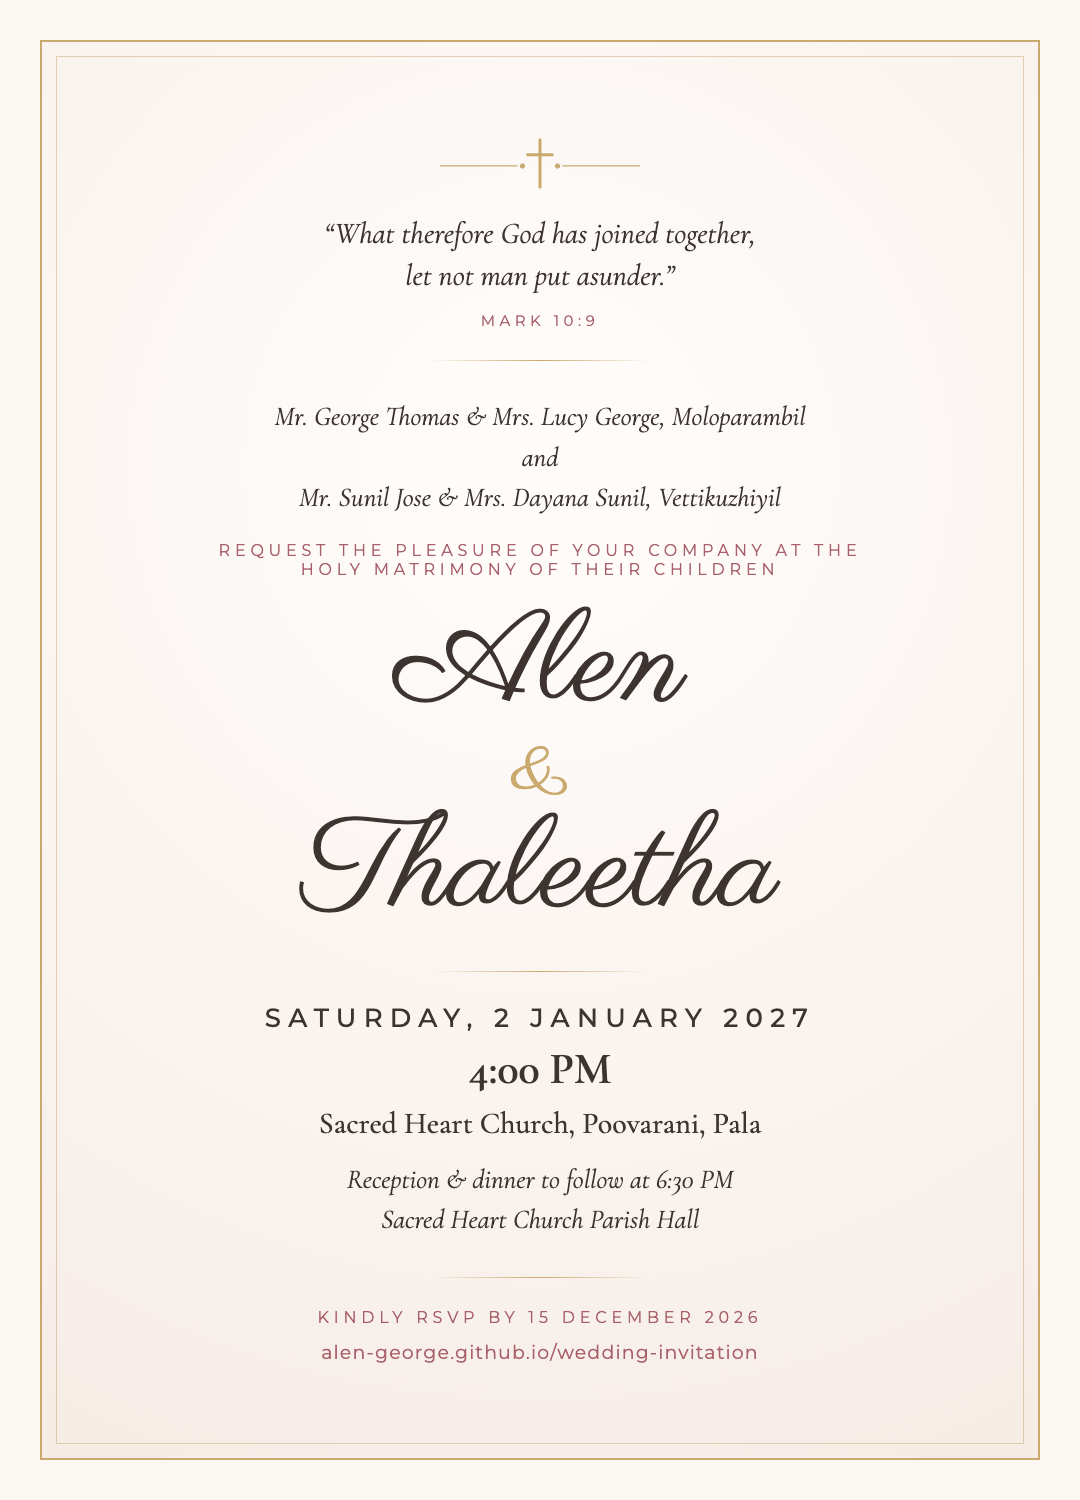
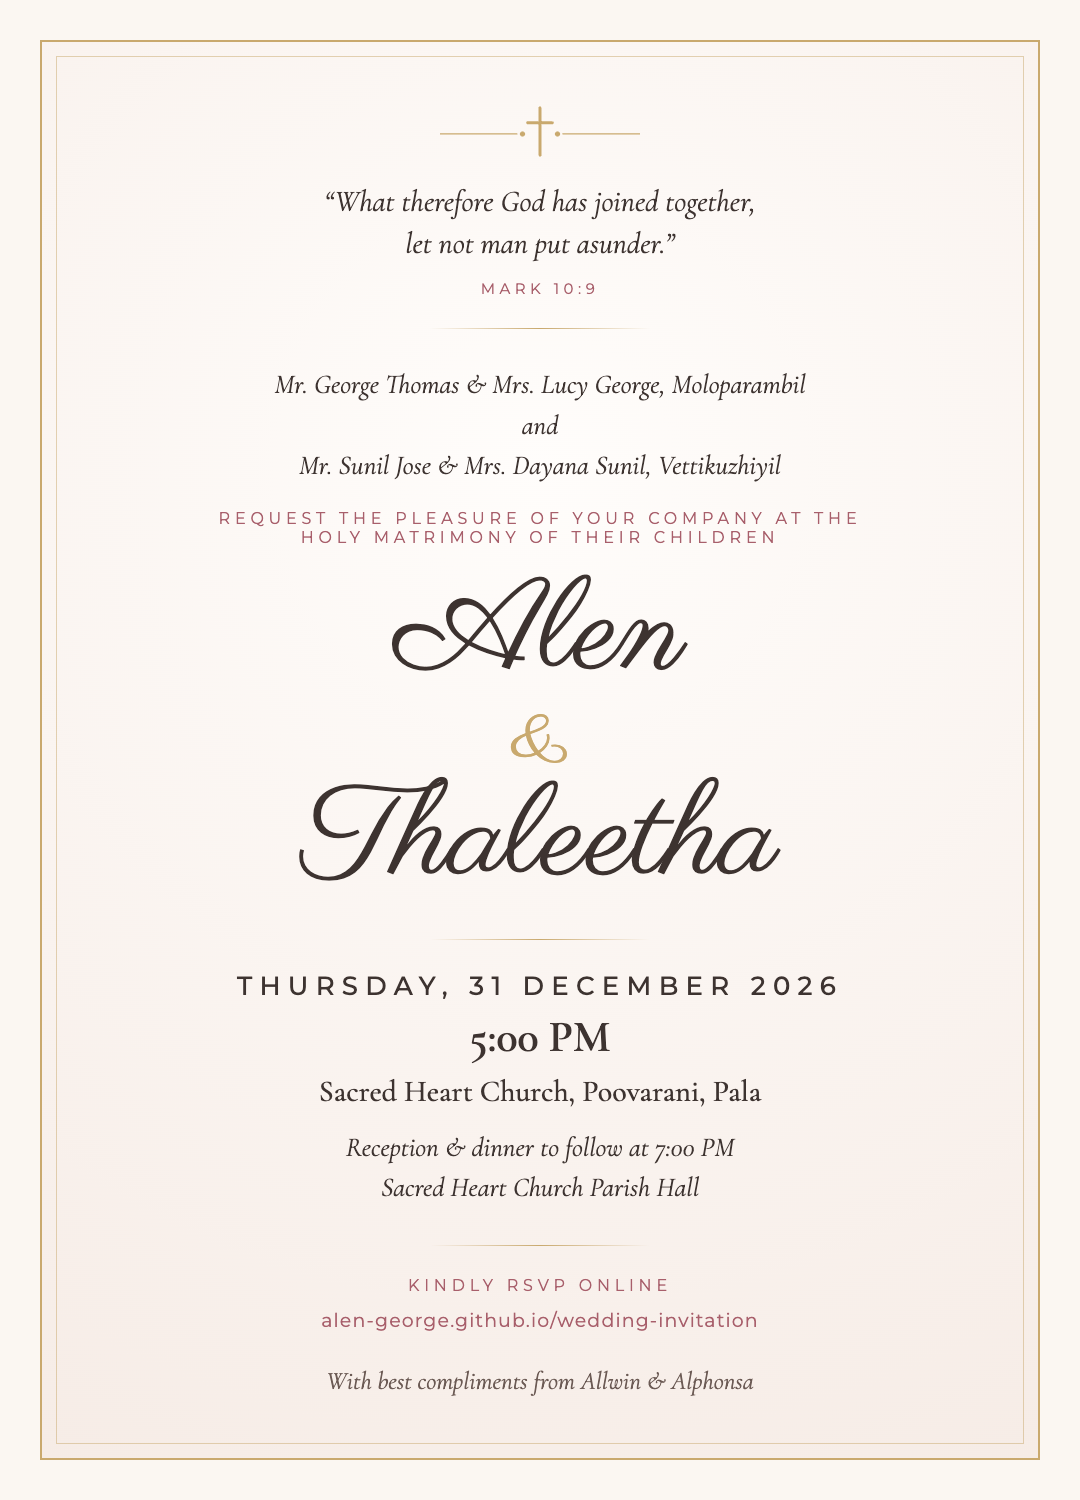
update

diff --git a/index.html b/index.html
@@ -8,9 +8,9 @@
   <!-- Link previews (WhatsApp, iMessage, Facebook) are read before any JavaScript runs,
        so edit these four lines by hand. og:image must be a full URL once the site is live,
        e.g. https://yourname.github.io/wedding-invitation/photos/hero-1.jpg -->
-  <meta name="description" content="Alen & Thaleetha are getting married on 02 January 2027. Tap to view the invitation and RSVP.">
+  <meta name="description" content="Alen & Thaleetha are getting married on 31 December 2026. Tap to view the invitation and RSVP.">
   <meta property="og:title" content="Alen & Thaleetha · Wedding Invitation">
-  <meta property="og:description" content="Saturday, 02 January 2027 · Pala · Tap to view the invitation and RSVP.">
+  <meta property="og:description" content="Thursday, 31 December 2026 · Pala · Tap to view the invitation and RSVP.">
   <meta property="og:image" content="https://alen-george.github.io/wedding-invitation/photos/og-preview.jpg">
   <meta property="og:image:width" content="1200">
   <meta property="og:image:height" content="630">
@@ -196,6 +196,7 @@
     <p class="footer-note" id="footerNote"></p>
     <p class="hashtag" id="hashtag"></p>
     <div class="contacts" id="contacts"></div>
+    <p class="compliments" id="compliments"></p>
   </footer>
 
   <div class="lightbox" id="lightbox" role="dialog" aria-modal="true" aria-label="Photo viewer" tabindex="-1">

diff --git a/css/style.css b/css/style.css
@@ -592,6 +592,8 @@ section { padding: clamp(4.5rem, 10vw, 7.5rem) 0; position: relative; }
 .footer-names { font-family: var(--script); font-size: clamp(2.8rem, 9vw, 3.8rem); color: #e9c6bf; line-height: 1.2; }
 .footer-date { font-family: var(--sans); font-size: 0.7rem; letter-spacing: 0.3em; text-transform: uppercase; margin-top: 0.4rem; }
 .footer-note { font-style: italic; margin-top: 1.2rem; opacity: 0.85; }
+.compliments { max-width: 420px; margin: 2.4rem auto 0; padding-top: 1.4rem; border-top: 1px solid rgba(201, 169, 110, 0.35); font-style: italic; color: #e9c6bf; }
+.compliments:empty { display: none; }
 .hashtag { margin-top: 0.6rem; color: var(--accent); font-family: var(--sans); font-size: 0.85rem; letter-spacing: 0.1em; }
 .contacts { display: flex; flex-wrap: wrap; justify-content: center; gap: 0.6rem 1.8rem; margin-top: 1.6rem; font-family: var(--sans); font-size: 0.8rem; }
 .contacts a { text-decoration: none; opacity: 0.85; }

diff --git a/js/app.js b/js/app.js
@@ -622,6 +622,7 @@
     $("#footerNames").textContent = coupleNames;
     $("#footerDate").textContent = mainDate ? fmtDateShort(mainDate) : "";
     $("#footerNote").textContent = C.footerNote || "";
+    $("#compliments").textContent = C.compliments || "";
     $("#hashtag").textContent = C.hashtag || "";
     $("#contacts").innerHTML = (C.contacts || []).filter((c) => c.phone).map((c) =>
       `<a href="tel:${esc(String(c.phone).replace(/[^\d+]/g, ""))}">${esc(c.name)} · ${esc(c.phone)}</a>`).join("");

diff --git a/js/config.js b/js/config.js
@@ -147,5 +147,6 @@ window.WEDDING_CONFIG = {
     { name: "Alen", phone: "+917012877627" },
     { name: "Thaleetha" }
   ],
-  footerNote: "Your presence is the greatest gift of all."
+  footerNote: "Your presence is the greatest gift of all.",
+  compliments: "With best compliments from Allwin, Josen Almodad & Alphonsa"   // shown at the very bottom; "" to hide
 };
